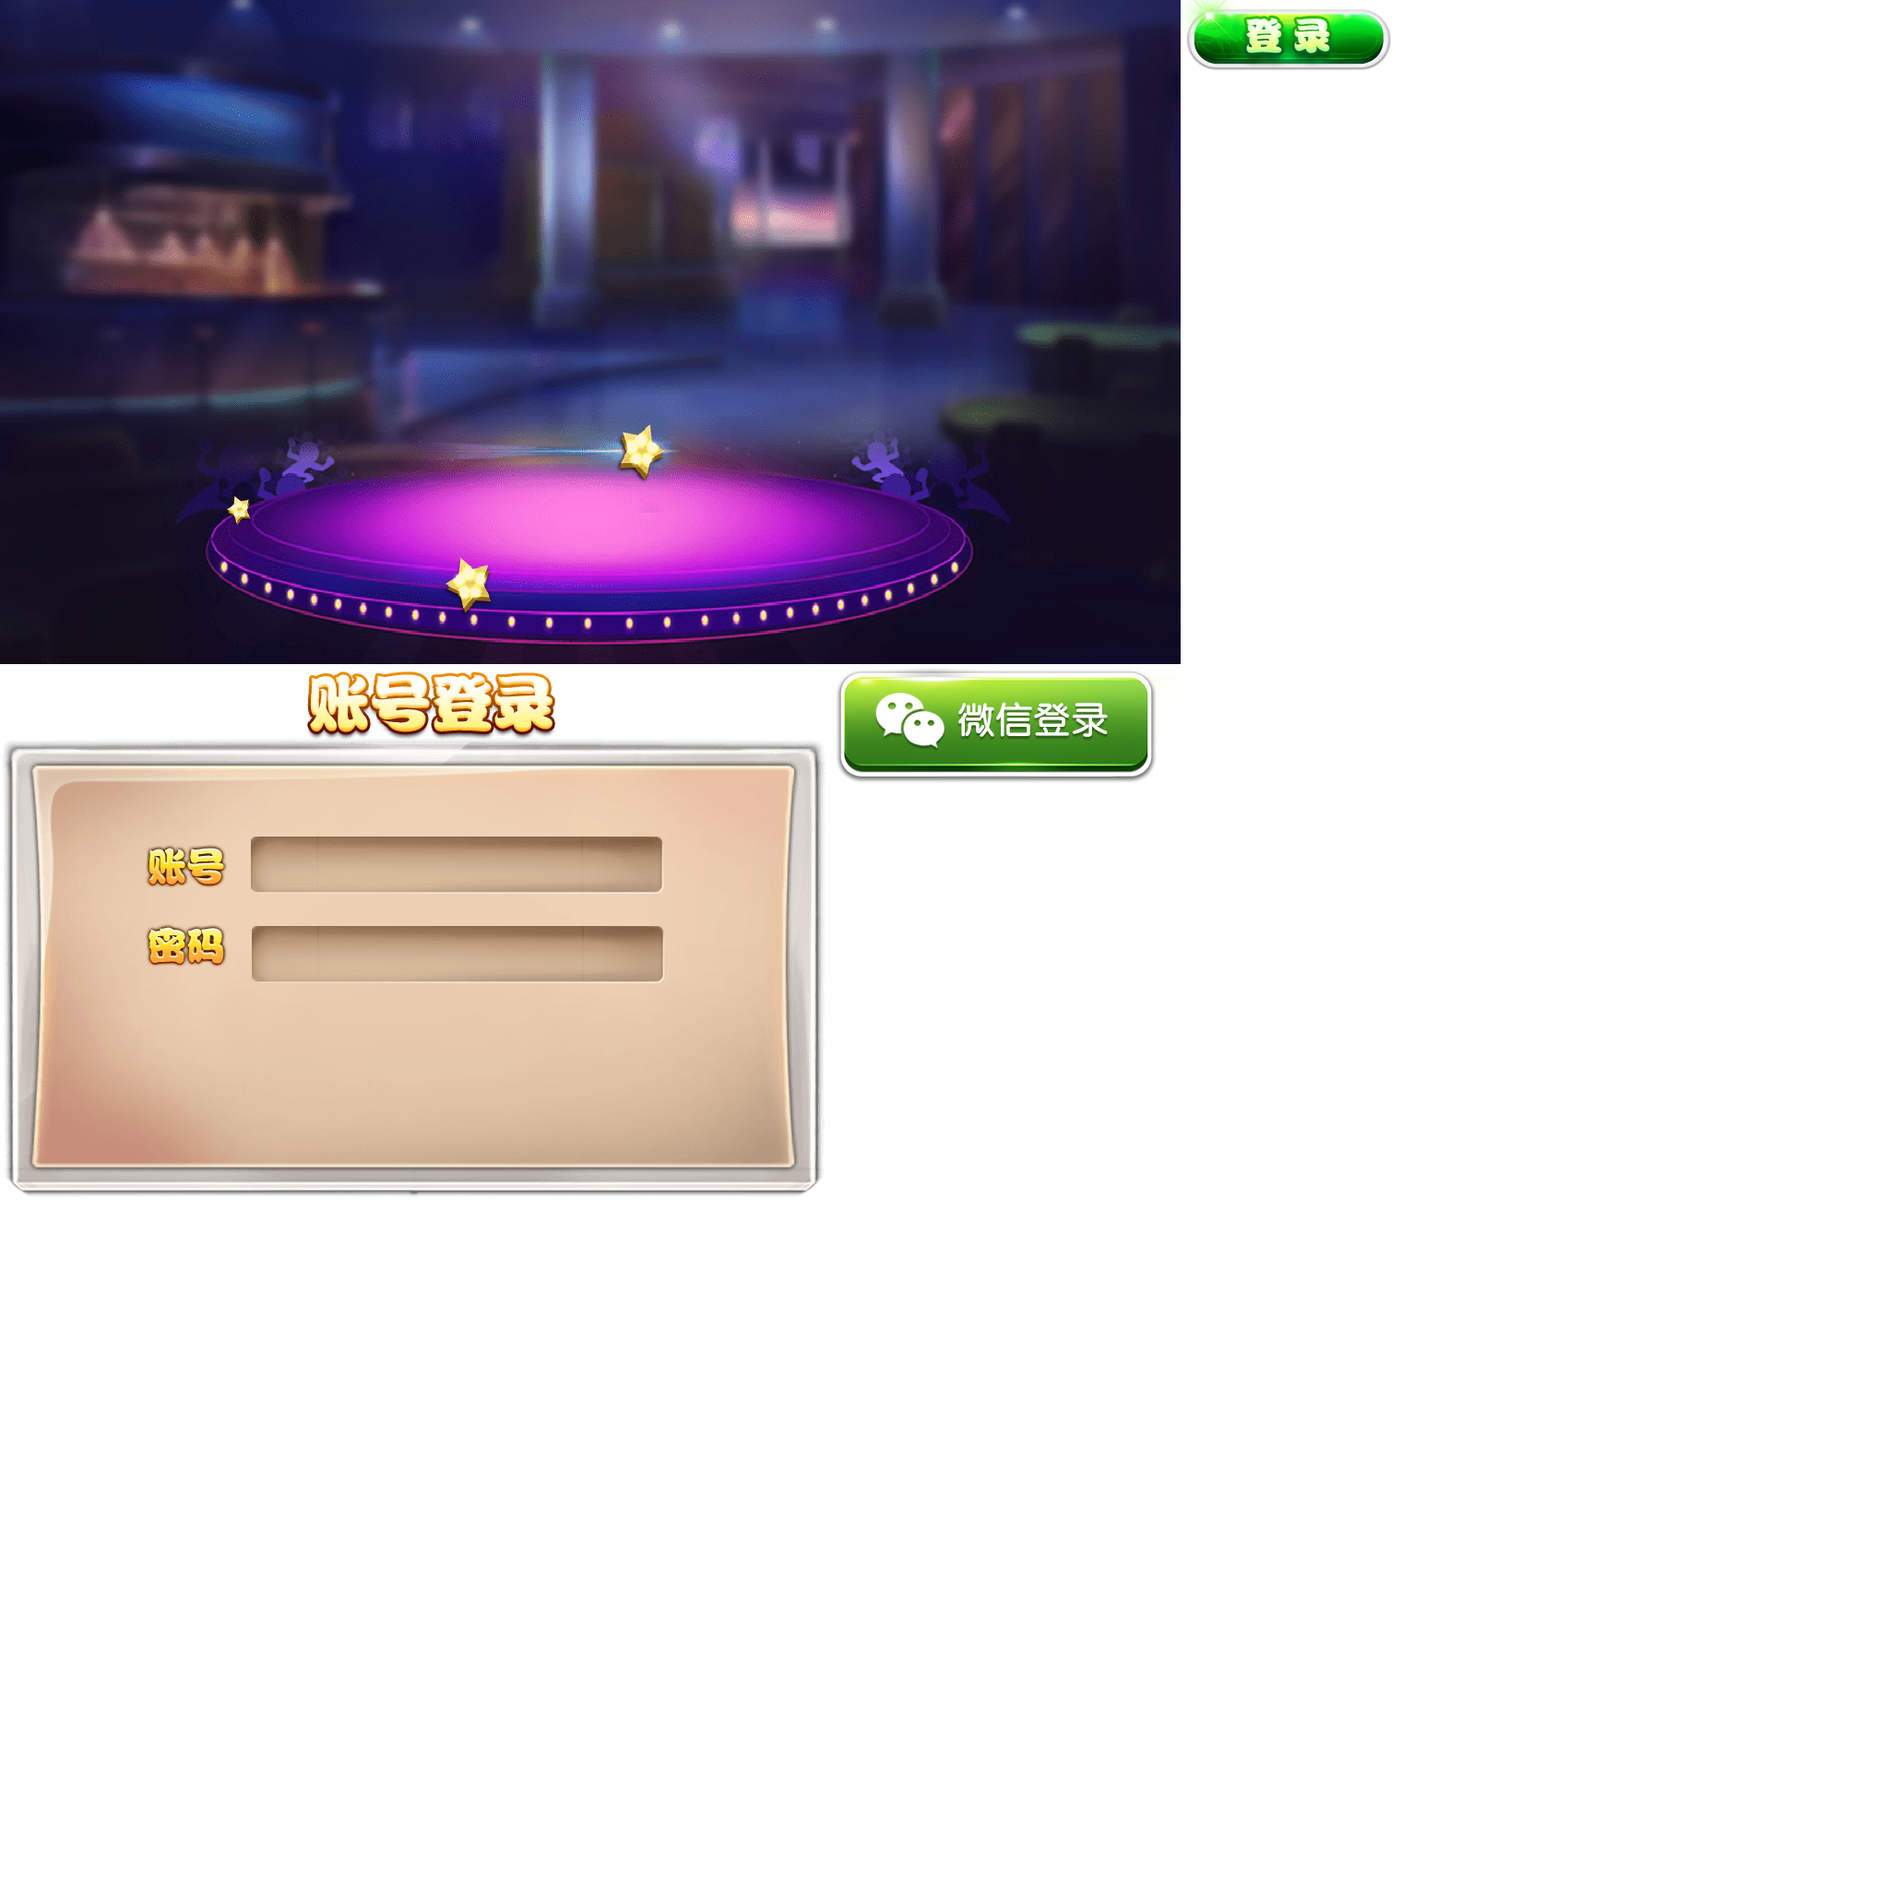
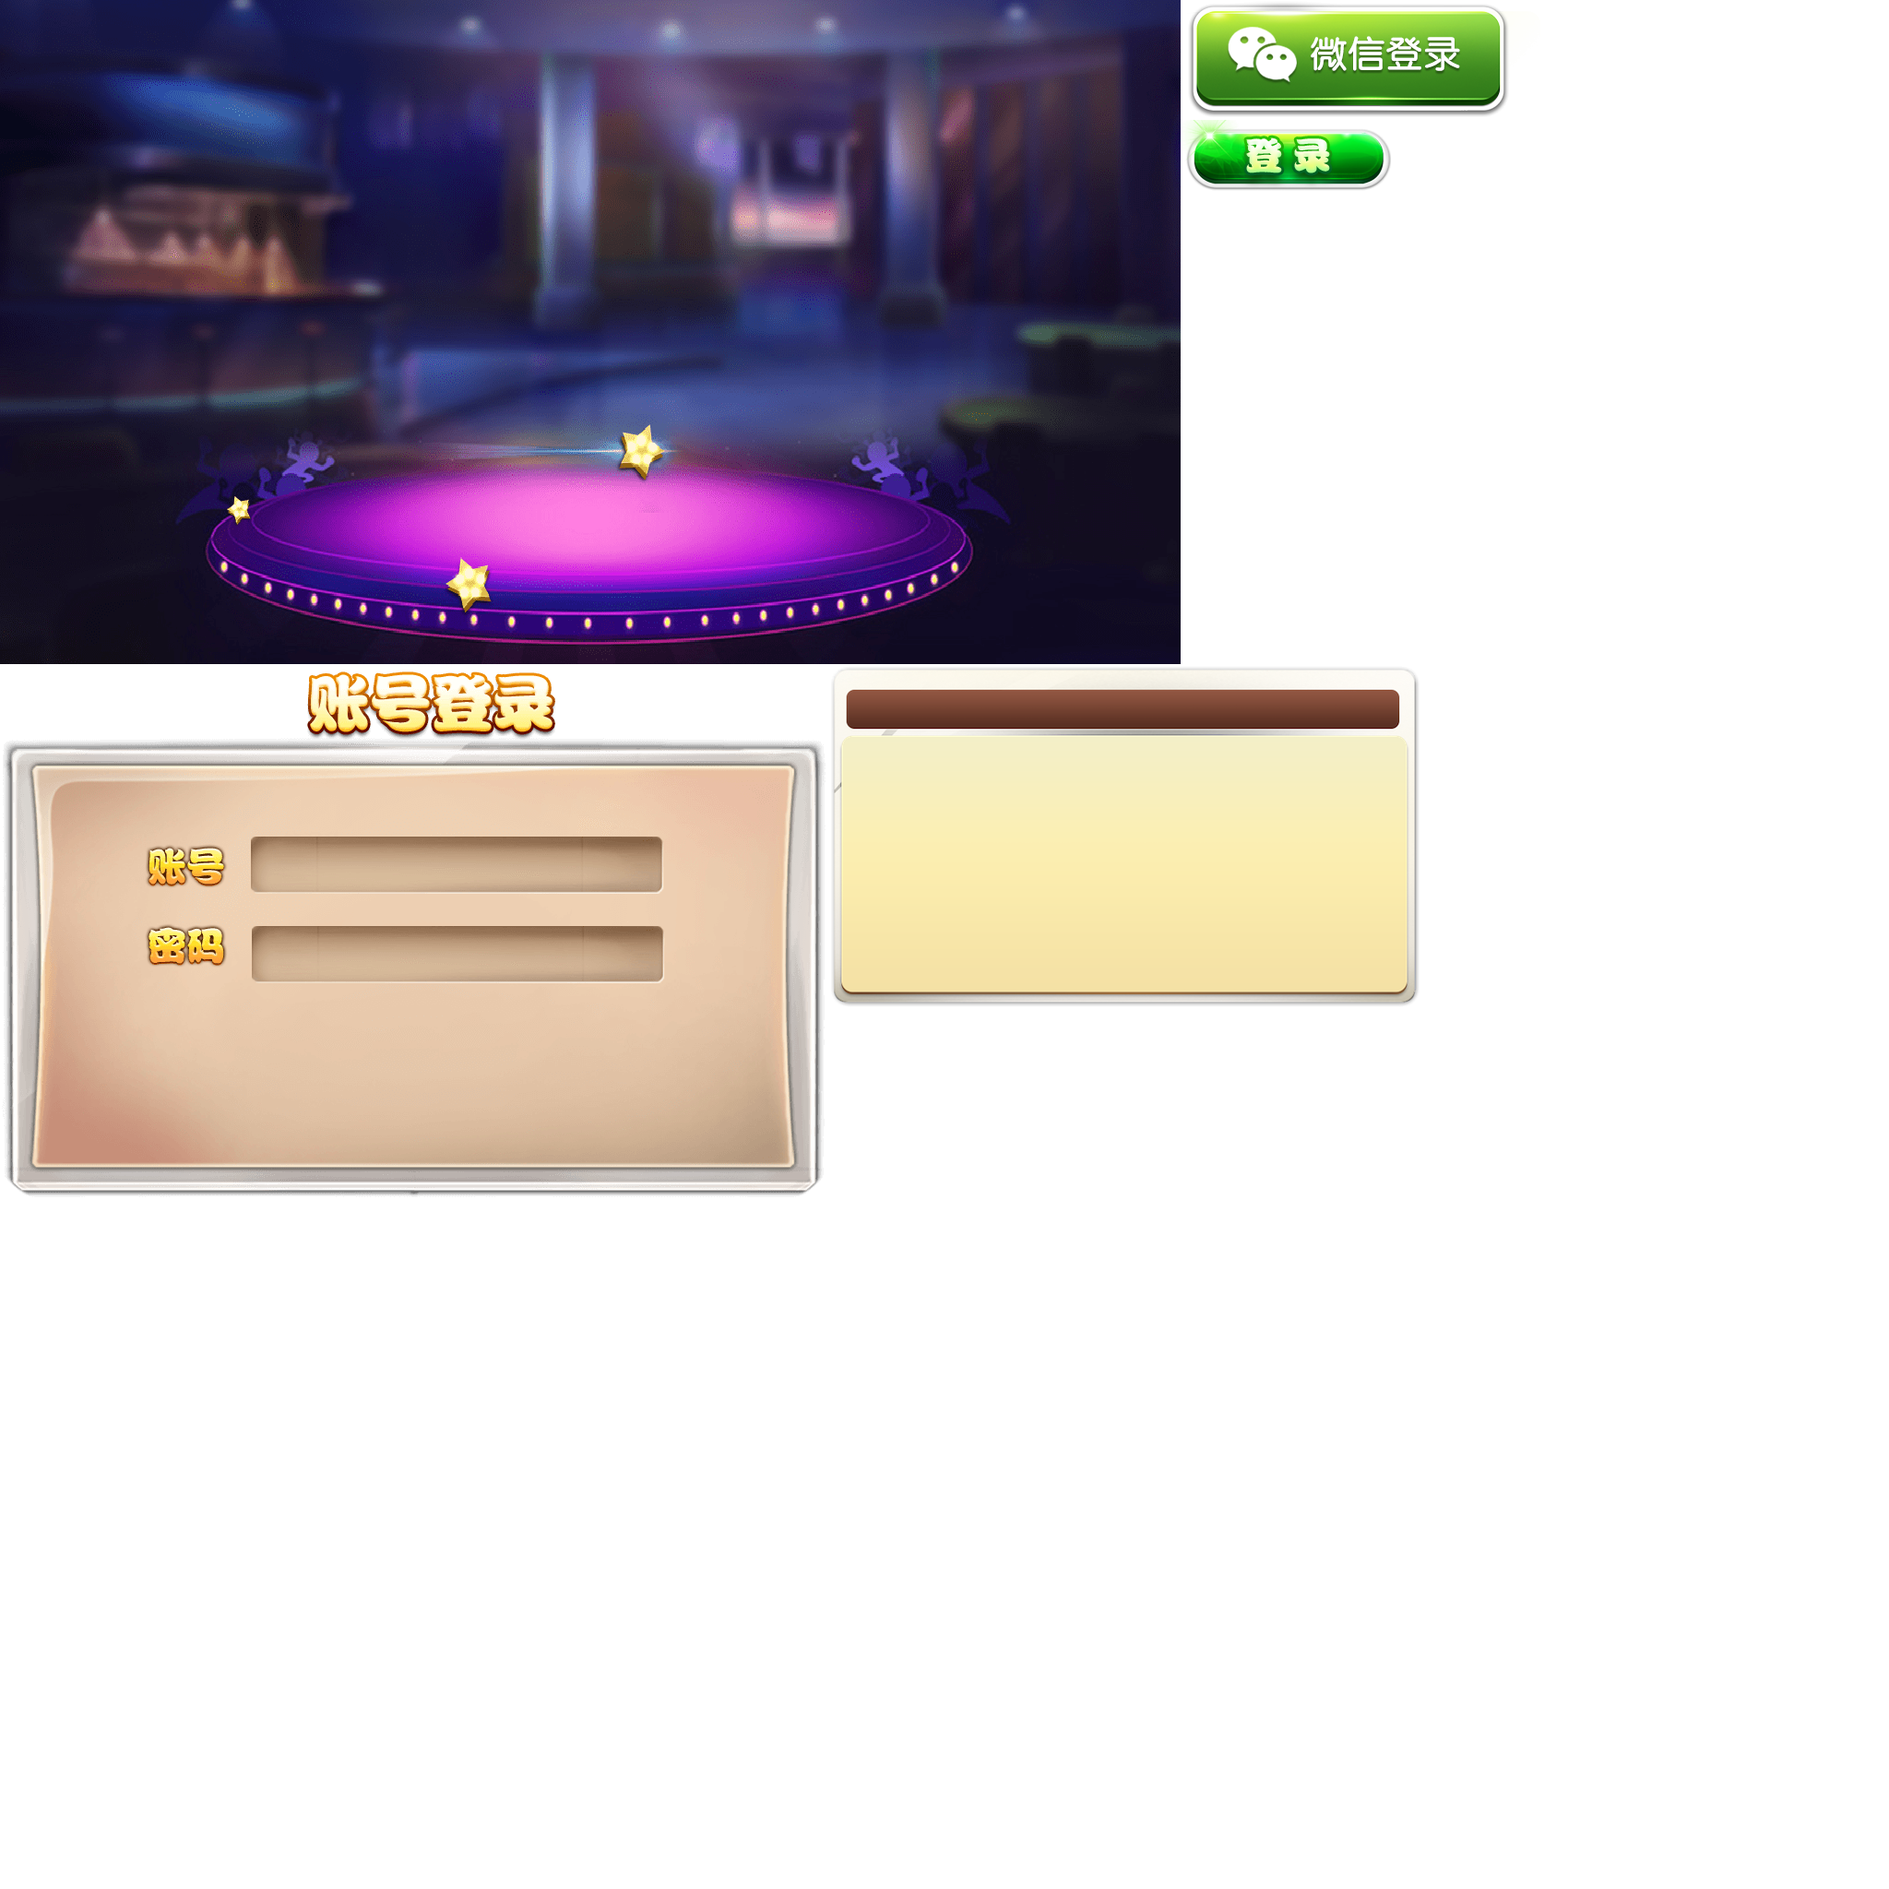
添加简易UI

Changed region(s): [[0.4375, 0.3438, 0.75, 0.5312], [0.625, 0.0, 0.8125, 0.125]]

diff --git a/aiJ-client/build/jsb-link/src/project.dev.js b/aiJ-client/build/jsb-link/src/project.dev.js
@@ -6283,6 +6283,7 @@ window.__require = function e(t, n, r) {
     Object.defineProperty(exports, "__esModule", {
       value: true
     });
+    var AlertWindow_1 = require("../AlertWindow");
     var HotUpdateManager = function() {
       function HotUpdateManager() {
         this._updating = false;
@@ -6306,12 +6307,13 @@ window.__require = function e(t, n, r) {
         null == HotUpdateManager.inst && (HotUpdateManager.inst = new HotUpdateManager());
         return HotUpdateManager.inst;
       };
-      HotUpdateManager.prototype.checkUpdate = function() {
+      HotUpdateManager.prototype.checkAndUpdate = function(callback) {
         var _this = this;
         if (this._updating) {
           cc.log("Checking or updating ...");
           return;
         }
+        this._callback = callback;
         if (this._am.getState() === jsb.AssetsManager.State.UNINITED) {
           cc.log("load project.manifest");
           cc.loader.loadRes("project", function(err, res) {
@@ -6320,6 +6322,7 @@ window.__require = function e(t, n, r) {
             _this._am.loadLocalManifest(manifest, _this._storagePath);
             if (!_this._am.getLocalManifest() || !_this._am.getLocalManifest().isLoaded()) {
               cc.log("Failed to load local manifest ...");
+              AlertWindow_1.default.alert("\u51fa\u9519\u4e86", "\u52a0\u8f7d\u672c\u5730\u7684manifest\u6587\u4ef6\u5931\u8d25,\u8bf7\u91cd\u65b0\u5b89\u88c5\u5ba2\u6237\u7aef.");
               return;
             }
             _this._am.setEventCallback(_this.checkCb.bind(_this));
@@ -6333,11 +6336,13 @@ window.__require = function e(t, n, r) {
         switch (event.getEventCode()) {
          case jsb.EventAssetsManager.ERROR_NO_LOCAL_MANIFEST:
           cc.log("No local manifest file found, hot update skipped.");
+          AlertWindow_1.default.alert("\u51fa\u9519\u4e86", "\u52a0\u8f7d\u672c\u5730\u7684manifest\u6587\u4ef6\u5931\u8d25,\u66f4\u65b0\u5931\u8d25.");
           break;
 
          case jsb.EventAssetsManager.ERROR_DOWNLOAD_MANIFEST:
          case jsb.EventAssetsManager.ERROR_PARSE_MANIFEST:
           cc.log("Fail to download manifest file, hot update skipped.");
+          AlertWindow_1.default.alert("\u51fa\u9519\u4e86", "\u4e0b\u8f7dmanifest\u6587\u4ef6\u5931\u8d25,\u66f4\u65b0\u5931\u8d25.");
           break;
 
          case jsb.EventAssetsManager.ALREADY_UP_TO_DATE:
@@ -6346,6 +6351,9 @@ window.__require = function e(t, n, r) {
 
          case jsb.EventAssetsManager.NEW_VERSION_FOUND:
           cc.log("New version found, please try to update.");
+          this._callback({
+            code: 0
+          });
           this._am.setEventCallback(this.updateCb.bind(this));
           this._am.update();
           this._updating = true;
@@ -6364,10 +6372,16 @@ window.__require = function e(t, n, r) {
         switch (event.getEventCode()) {
          case jsb.EventAssetsManager.ERROR_NO_LOCAL_MANIFEST:
           cc.log("No local manifest file found, hot update skipped.");
+          AlertWindow_1.default.alert("\u51fa\u9519\u4e86", "\u52a0\u8f7d\u672c\u5730\u7684manifest\u6587\u4ef6\u5931\u8d25,\u66f4\u65b0\u5931\u8d25.");
           failed = true;
           break;
 
          case jsb.EventAssetsManager.UPDATE_PROGRESSION:
+          this._callback({
+            code: 1,
+            downloaded: event.getDownloadedFiles(),
+            total: event.getTotalFiles()
+          });
           cc.log("downloaded:" + event.getDownloadedFiles() + " / " + event.getTotalFiles());
           var msg = event.getMessage();
           msg && cc.log("Updated file: " + msg);
@@ -6386,6 +6400,9 @@ window.__require = function e(t, n, r) {
 
          case jsb.EventAssetsManager.UPDATE_FINISHED:
           cc.log("Update finished. " + event.getMessage());
+          this._callback({
+            code: 2
+          });
           needRestart = true;
           break;
 
@@ -6422,7 +6439,9 @@ window.__require = function e(t, n, r) {
     }();
     exports.default = HotUpdateManager;
     cc._RF.pop();
-  }, {} ],
+  }, {
+    "../AlertWindow": "AlertWindow"
+  } ],
   JoinTableEventResponseHandler: [ function(require, module, exports) {
     "use strict";
     cc._RF.push(module, "236b75l/31JOr5fUmWGNVAT", "JoinTableEventResponseHandler");
@@ -10647,16 +10666,35 @@ window.__require = function e(t, n, r) {
         this.loadPackage("welcome", function() {
           fgui.UIPackage.addPackage("welcome");
           _this._view = fgui.UIPackage.createObject("welcome", "WelcomeLayer").asCom;
+          _this._hotUpdateGroup = _this._view.getChild("hotUpdateGroup").asGroup;
+          _this._hotUpdateProgressBar = _this._view.getChildInGroup("hotUpdateProgressBar", _this._hotUpdateGroup).asProgress;
           _this.initView();
           fgui.GRoot.inst.addChild(_this._view);
         });
       };
       WelcomeLayer.prototype.onInitAiJCom = function(objs) {
+        var _this = this;
         PlazaConfig_1.default.init(AppConfig_1.default.PLAZA_WS_HOST, AppConfig_1.default.PLAZA_WS_PORT);
         AudioManager_1.default.play_music("commons", "bgm");
         if (cc.sys.isNative) {
           cc.log("hot update manager check");
-          HotUpdateManager_1.default.getInst().checkUpdate();
+          HotUpdateManager_1.default.getInst().checkAndUpdate(function(event) {
+            switch (event["code"]) {
+             case 0:
+              _this._view.getControllerAt(0).setSelectedIndex(1);
+              break;
+
+             case 1:
+              var downloaded = event["downloaded"];
+              var total = event["total"];
+              _this._hotUpdateProgressBar.max = total;
+              _this._hotUpdateProgressBar.value = downloaded;
+              break;
+
+             case 2:
+              _this._view.getControllerAt(0).setSelectedIndex(0);
+            }
+          });
         }
       };
       WelcomeLayer.prototype.onDestroy = function() {

diff --git a/aiJ-client/assets/Script/hotupdate/HotUpdateManager.ts b/aiJ-client/assets/Script/hotupdate/HotUpdateManager.ts
@@ -2,6 +2,7 @@
  * 热更新管理器
  */
 import TextAsset = cc.TextAsset;
+import AlertWindow from "../AlertWindow";
 
 export default class HotUpdateManager {
 
@@ -26,6 +27,10 @@ export default class HotUpdateManager {
      * 重试状态
      */
     private _canRetry: boolean = false;
+    /**
+     * 回调函数
+     */
+    private _callback: any;
 
     /**
      * 获取实例
@@ -68,11 +73,12 @@ export default class HotUpdateManager {
     /**
      * 校验版本
      */
-    public checkUpdate() {
-        if (this._updating) {
+    public checkAndUpdate(callback) {
+        if (this._updating) { //正在更新
             cc.log('Checking or updating ...');
             return;
         }
+        this._callback = callback;
         if (this._am.getState() === jsb.AssetsManager.State.UNINITED) {
             cc.log("load project.manifest");
             cc.loader.loadRes("project", (err, res) => {
@@ -81,6 +87,7 @@ export default class HotUpdateManager {
                 this._am.loadLocalManifest(manifest, this._storagePath);
                 if (!this._am.getLocalManifest() || !this._am.getLocalManifest().isLoaded()) {
                     cc.log('Failed to load local manifest ...');
+                    AlertWindow.alert("出错了", "加载本地的manifest文件失败,请重新安装客户端.");
                     return;
                 }
                 this._am.setEventCallback(this.checkCb.bind(this));
@@ -99,10 +106,12 @@ export default class HotUpdateManager {
         switch (event.getEventCode()) {
             case jsb.EventAssetsManager.ERROR_NO_LOCAL_MANIFEST:
                 cc.log("No local manifest file found, hot update skipped.");
+                AlertWindow.alert("出错了", "加载本地的manifest文件失败,更新失败.");
                 break;
             case jsb.EventAssetsManager.ERROR_DOWNLOAD_MANIFEST:
             case jsb.EventAssetsManager.ERROR_PARSE_MANIFEST:
                 cc.log("Fail to download manifest file, hot update skipped.");
+                AlertWindow.alert("出错了", "下载manifest文件失败,更新失败.");
                 break;
             case jsb.EventAssetsManager.ALREADY_UP_TO_DATE:
                 cc.log("Already up to date with the latest remote version.");
@@ -110,6 +119,7 @@ export default class HotUpdateManager {
             case jsb.EventAssetsManager.NEW_VERSION_FOUND:
                 cc.log('New version found, please try to update.');
                 //发现新版本
+                this._callback({'code': 0});
                 this._am.setEventCallback(this.updateCb.bind(this));
                 this._am.update();
                 this._updating = true;
@@ -132,9 +142,11 @@ export default class HotUpdateManager {
         switch (event.getEventCode()) {
             case jsb.EventAssetsManager.ERROR_NO_LOCAL_MANIFEST:
                 cc.log("No local manifest file found, hot update skipped.");
+                AlertWindow.alert("出错了", "加载本地的manifest文件失败,更新失败.");
                 failed = true;
                 break;
             case jsb.EventAssetsManager.UPDATE_PROGRESSION:
+                this._callback({'code': 1, 'downloaded': event.getDownloadedFiles(), 'total': event.getTotalFiles()});
                 cc.log("downloaded:" + event.getDownloadedFiles() + ' / ' + event.getTotalFiles());
                 var msg = event.getMessage();
                 if (msg) {
@@ -152,6 +164,7 @@ export default class HotUpdateManager {
                 break;
             case jsb.EventAssetsManager.UPDATE_FINISHED:
                 cc.log("Update finished. " + event.getMessage());
+                this._callback({'code': 2});
                 needRestart = true;
                 break;
             case jsb.EventAssetsManager.UPDATE_FAILED:

diff --git a/aiJ-client/assets/Script/WelcomeLayer.ts b/aiJ-client/assets/Script/WelcomeLayer.ts
@@ -21,7 +21,14 @@ export default class WelcomeLayer extends AiJCCComponent {
      * UI
      */
     private _view: fgui.GComponent;
-
+    /**
+     * 热更新组
+     */
+    private _hotUpdateGroup: fgui.GGroup;
+    /**
+     * 热更新的进度条
+     */
+    private _hotUpdateProgressBar: fgui.GProgressBar;
 
     /**
      * 加载
@@ -32,6 +39,8 @@ export default class WelcomeLayer extends AiJCCComponent {
         this.loadPackage("welcome", () => {
                 fgui.UIPackage.addPackage("welcome");
                 this._view = fgui.UIPackage.createObject("welcome", "WelcomeLayer").asCom;
+                this._hotUpdateGroup = this._view.getChild("hotUpdateGroup").asGroup;
+                this._hotUpdateProgressBar = this._view.getChildInGroup("hotUpdateProgressBar", this._hotUpdateGroup).asProgress;
                 this.initView();
                 fgui.GRoot.inst.addChild(this._view);
             }
@@ -43,7 +52,22 @@ export default class WelcomeLayer extends AiJCCComponent {
         AudioManager.play_music("commons", "bgm");
         if (cc.sys.isNative) {
             cc.log("hot update manager check");
-            HotUpdateManager.getInst().checkUpdate(); //检验更新
+            HotUpdateManager.getInst().checkAndUpdate((event) => {
+                switch (event['code']) {
+                    case 0: //发现新版本
+                        this._view.getControllerAt(0).setSelectedIndex(1);  //显示更新的界面
+                        break;
+                    case 1: //更新进度
+                        let downloaded = event['downloaded'];
+                        let total = event['total'];
+                        this._hotUpdateProgressBar.max = total;
+                        this._hotUpdateProgressBar.value = downloaded;
+                        break;
+                    case 2: //更新完成
+                        this._view.getControllerAt(0).setSelectedIndex(0);
+                        break;
+                }
+            }); //检验更新
         }
     }
 

diff --git a/aiJ-client/build/jsb-link/main.js b/aiJ-client/build/jsb-link/main.js
@@ -2,7 +2,12 @@
 if (false) {
     BK.Script.loadlib('GameRes://libs/qqplay-adapter.js');
 }
-
+if (jsb) {
+    var hotUpdateSearchPaths = localStorage.getItem('HotUpdateSearchPaths');
+    if (hotUpdateSearchPaths) {
+        jsb.fileUtils.setSearchPaths(JSON.parse(hotUpdateSearchPaths));
+    }
+}
 window.boot = function () {
     var settings = window._CCSettings;
     window._CCSettings = undefined;
@@ -216,10 +221,7 @@ else if (window.jsb) {
         require('src/cocos2d-jsb.js');
         require('jsb-adapter/jsb-engine.js');
     }
-    var hotUpdateSearchPaths = localStorage.getItem('HotUpdateSearchPaths');
-    if (hotUpdateSearchPaths) {
-        jsb.fileUtils.setSearchPaths(JSON.parse(hotUpdateSearchPaths));
-    }
+
     cc.macro.CLEANUP_IMAGE_CACHE = true;
     window.boot();
 }
